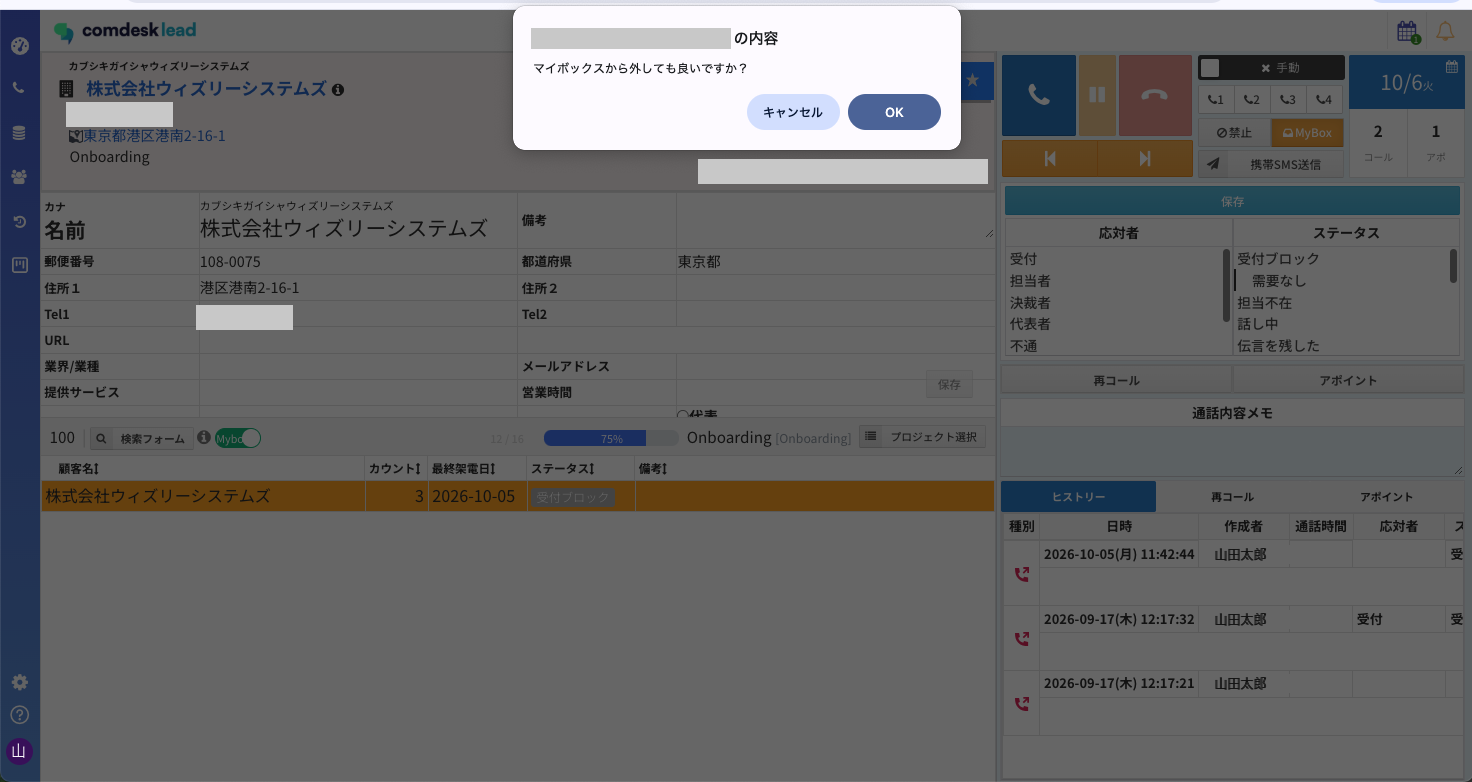
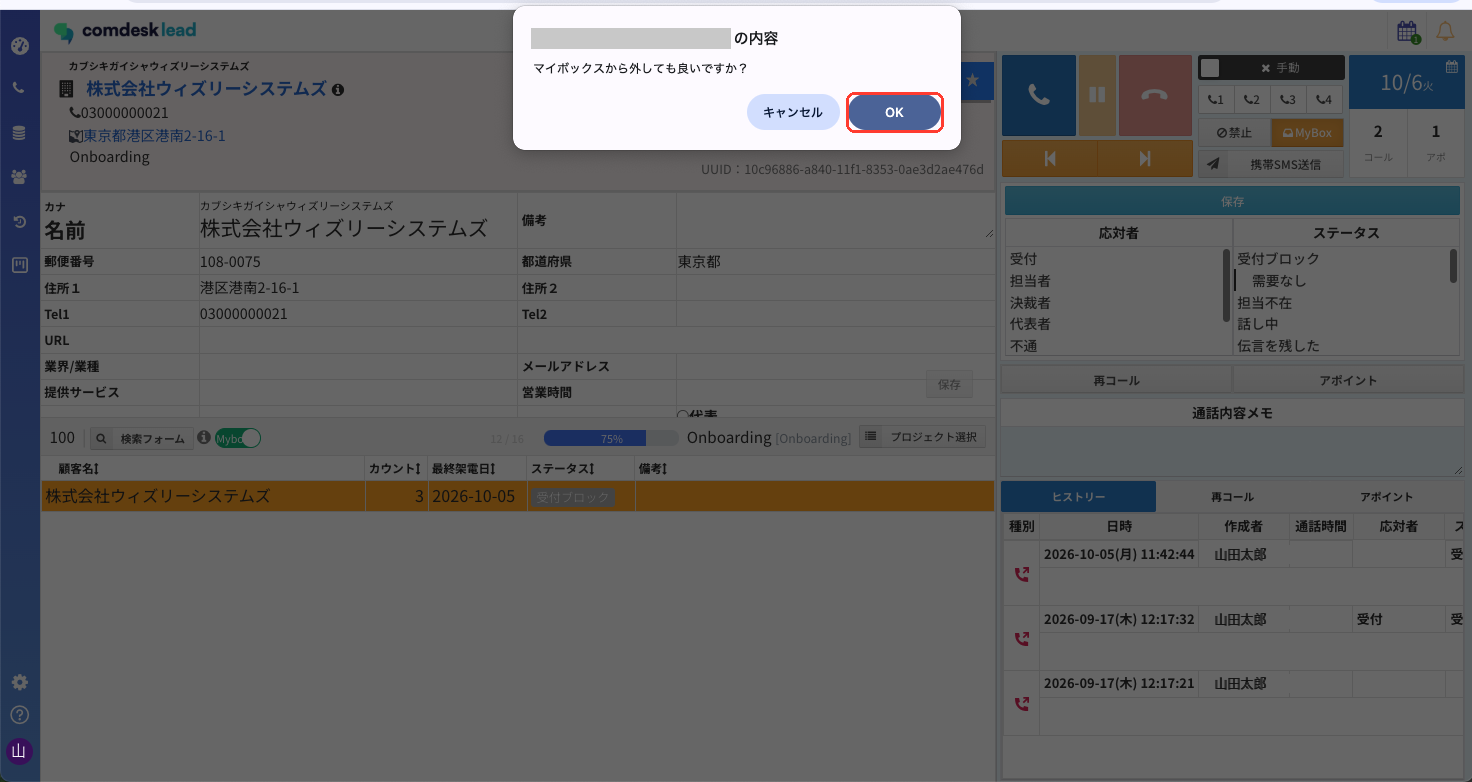
Mybox解除: 赤枠追加・マスク整理、Mybox担当変更ページを新UIに更新

diff --git a/guide/user/13557435667993.md b/guide/user/13557435667993.md
@@ -13,7 +13,7 @@ Mybox管理画面から担当変更ができます。
 
 <Steps>
   <Step title="Mybox管理画面を開く">
-    Mybox管理画面を開きます。
+    左メニューの「Customer」アイコンから「MyBox管理」を開きます。
 
     <Frame caption="メニューのMyBox管理">
       <img src="/.gitbook/assets/13557435667993_0.png" alt="画面左側のCustomerメニューでMyBox管理を囲んだ画面" />
@@ -23,42 +23,28 @@ Mybox管理画面から担当変更ができます。
     担当変更を行いたいリストの左側のチェックボックスにチェックを入れます。
 
     <Frame caption="リストの選択">
-      <img src="/.gitbook/assets/13557435667993_1.png" alt="Mybox管理画面でリストのチェックボックスにチェックを入れた画面" />
+      <img src="/.gitbook/assets/13557435667993_1.png" alt="MyBox管理画面でリストのチェックボックスにチェックを入れた画面" />
     </Frame>
   </Step>
-  <Step title="「担当変更」ボタンをクリックする">
-    「担当変更」ボタンをクリックします。
+  <Step title="「MyBox変更」ボタンをクリックする">
+    画面左上の「MyBox変更」ボタンをクリックします。
 
-    <Frame caption="担当変更ボタン">
-      <img src="/.gitbook/assets/13557435667993_2.png" alt="Mybox管理画面の担当変更ボタンを囲んだ画面" />
+    <Frame caption="MyBox変更ボタン">
+      <img src="/.gitbook/assets/13557435667993_2.png" alt="MyBox管理画面のMyBox変更ボタンを囲んだ画面" />
     </Frame>
   </Step>
-  <Step title="担当変更先の選択欄をクリックする">
-    担当変更先を選択する画面が表示されます。赤枠内をクリックします。
+  <Step title="変更先のユーザーを選択する">
+    「MyBox変更」画面で「選択したコンタクトを以下のユーザーのMyboxに入れる」を選び、赤枠内から変更先のユーザーを選択します。
 
-    <Frame caption="担当変更画面">
-      <img src="/.gitbook/assets/13557435667993_3.png" alt="担当変更画面のユーザー選択欄を赤枠で囲んだ画面" />
+    <Frame caption="MyBox変更画面">
+      <img src="/.gitbook/assets/13557435667993_3.png" alt="MyBox変更画面の変更先ユーザー選択欄を赤枠で囲んだ画面" />
     </Frame>
   </Step>
-  <Step title="ユーザー名一覧を確認する">
-    ユーザー名の一覧が表示されます。
+  <Step title="「変更」ボタンをクリックする">
+    「変更」ボタンをクリックします。MyBox管理画面の「Mybox担当」欄が、選択したユーザーに変更されます。
 
-    <Frame caption="ユーザー名一覧">
-      <img src="/.gitbook/assets/13557435667993_4.png" alt="担当変更画面にユーザー名の一覧が表示された画面" />
-    </Frame>
-  </Step>
-  <Step title="変更先のユーザーを選択して実行する">
-    変更先のユーザーを選択し、「実行」ボタンをクリックします。
-
-    <Frame caption="実行ボタン">
-      <img src="/.gitbook/assets/13557435667993_5.png" alt="担当変更画面の実行ボタンを囲んだ画面" />
-    </Frame>
-  </Step>
-  <Step title="変更結果を確認する">
-    Myboxの担当者が変更されます。
-
-    <Frame caption="担当変更後のMybox管理画面">
-      <img src="/.gitbook/assets/13557435667993_6.png" alt="Myboxの担当者が変更されたMybox管理画面" />
+    <Frame caption="変更ボタン">
+      <img src="/.gitbook/assets/13557435667993_4.png" alt="MyBox変更画面の変更ボタンを囲んだ画面" />
     </Frame>
   </Step>
 </Steps>
